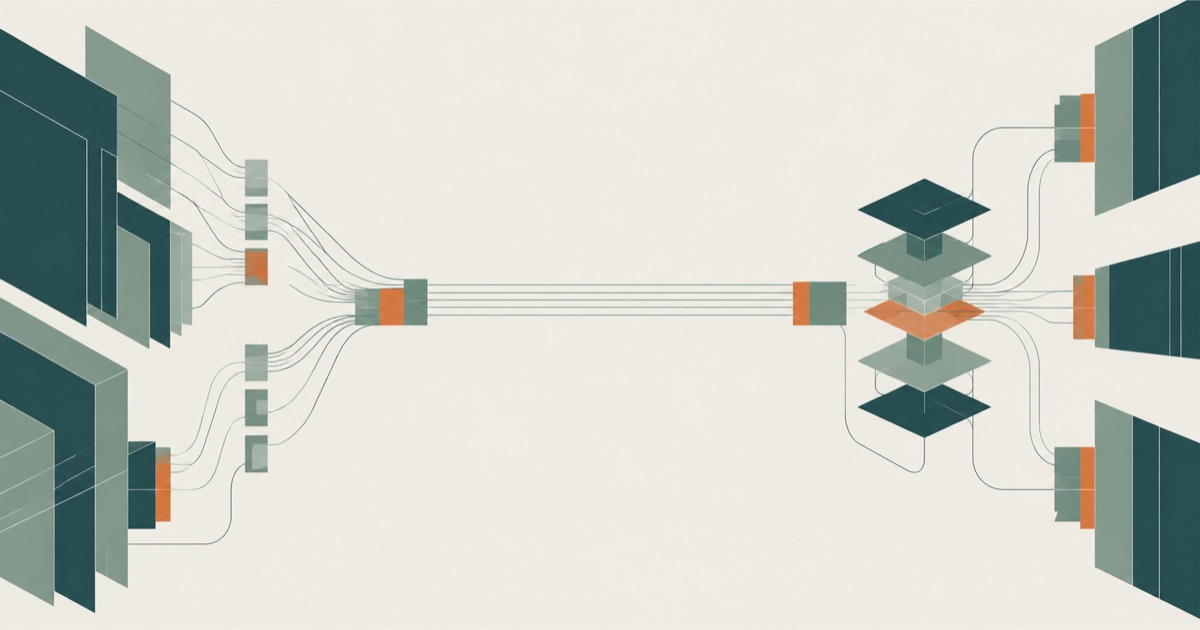
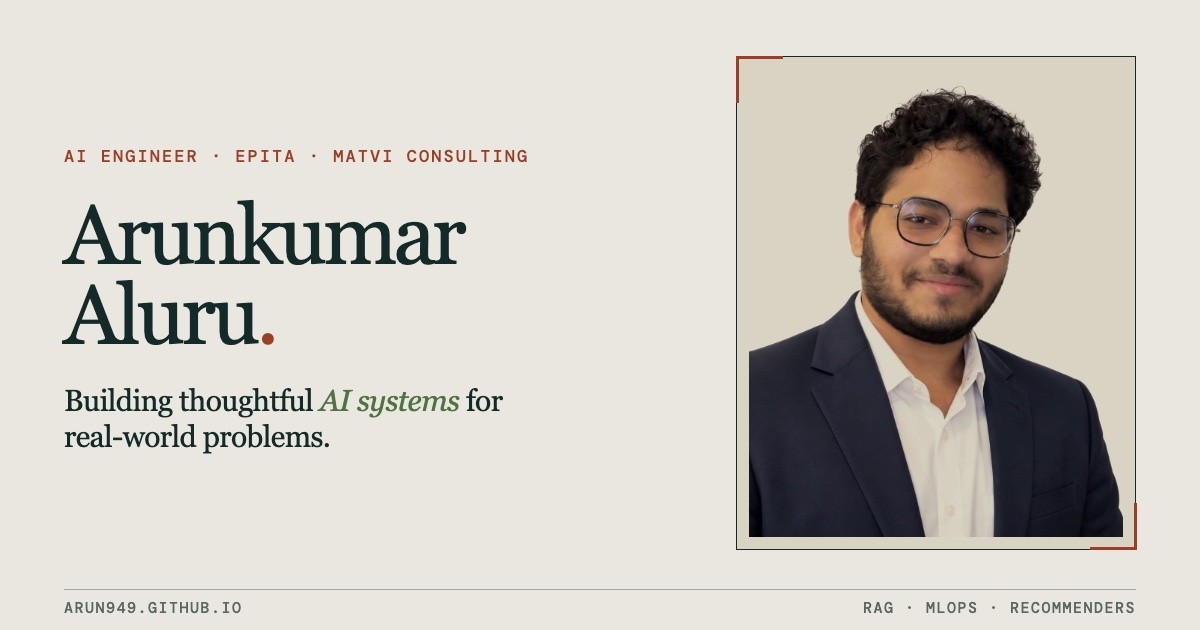
Add 'Let's talk about' blog with My journey and My research tracks; new social preview
- Social preview image now uses the new portrait (cache-busted og:image)
- articles.js entries carry a track; blog page has track cards, filters and #journey/#research links
- IEEE paper listed under My research; RAG article under My journey
- Homepage blog section links both tracks

diff --git a/blog.html b/blog.html
@@ -3,7 +3,7 @@
 <head>
   <meta charset="UTF-8">
   <meta name="viewport" content="width=device-width, initial-scale=1.0">
-  <meta name="description" content="Articles and notes by Arunkumar Aluru on AI engineering, machine learning, MLOps, and applied generative AI.">
+  <meta name="description" content="Let's talk about: blogs on Arunkumar Aluru's journey in AI engineering, and the research he is working on.">
   <meta name="robots" content="index, follow">
   <meta name="theme-color" content="#e9e7df" media="(prefers-color-scheme: light)">
   <meta name="theme-color" content="#111b1a" media="(prefers-color-scheme: dark)">
@@ -12,8 +12,11 @@
   <meta property="og:type" content="website">
   <meta property="og:url" content="https://arun949.github.io/blog.html">
   <meta property="og:title" content="My Blog | Arunkumar Aluru">
-  <meta property="og:description" content="Notes on AI engineering, machine learning, MLOps, and applied generative AI.">
-  <meta property="og:image" content="https://arun949.github.io/assets/social-preview.jpg">
+  <meta property="og:description" content="Let's talk about my journey in AI engineering and the research I am working on.">
+  <meta property="og:image" content="https://arun949.github.io/assets/social-preview.jpg?v=2">
+  <meta property="og:image:width" content="1200">
+  <meta property="og:image:height" content="630">
+  <meta property="og:image:alt" content="Arunkumar Aluru, AI Engineer, with the line Building thoughtful AI systems for real-world problems">
   <meta name="twitter:card" content="summary_large_image">
   <title>My Blog | Arunkumar Aluru</title>
   <link rel="icon" href="assets/favicon.svg" type="image/svg+xml">
@@ -21,18 +24,48 @@
   <link rel="preconnect" href="https://fonts.googleapis.com">
   <link rel="preconnect" href="https://fonts.gstatic.com" crossorigin>
   <link href="https://fonts.googleapis.com/css2?family=DM+Mono:wght@400;500&family=Manrope:wght@400;500;700&display=swap" rel="stylesheet">
-  <link rel="stylesheet" href="styles.css?v=20261127">
+  <link rel="stylesheet" href="styles.css?v=20261128">
 </head>
 <body>
   <a class="skip-link" href="#main-content">Skip to content</a>
   <header class="site-header"><nav class="nav container" aria-label="Primary navigation"><a class="wordmark" href="index.html">Arunkumar<span>.</span></a><div class="nav-end"><a class="nav-back" href="index.html">Portfolio</a><button class="theme-toggle" type="button" aria-label="Switch colour theme"><span class="theme-label">Dark</span></button></div></nav></header>
   <main id="main-content">
-    <section class="blog-hero container"><p class="eyebrow">My Blog / Field notes</p><h1>Ideas I am <em>working through.</em></h1><p>Short articles on AI engineering, machine learning, data systems, MLOps, and the lessons behind the work.</p></section>
-    <section class="blog-section container" aria-labelledby="articles-heading"><div class="blog-heading"><h2 id="articles-heading">Latest articles</h2><p id="article-count" aria-live="polite"></p></div><div class="article-list" id="article-list"></div><div class="empty-articles" id="empty-articles" hidden><p class="eyebrow">First entry pending</p><h2>New notes are on the way.</h2><p>Check back soon for practical writing on AI systems and applied research.</p></div></section>
+    <section class="blog-hero container">
+      <p class="eyebrow">My Blog</p>
+      <h1>Let's talk <em>about.</em></h1>
+      <p>Two threads run through everything I write here: the journey of building and learning, and the research questions I am working on.</p>
+      <div class="track-cards">
+        <a class="track-card" href="#journey" data-filter="journey">
+          <span class="track-index">01</span>
+          <span class="track-title">My journey</span>
+          <span class="track-summary">Blogs on what I am building, learning, and curious about, from AI engineering to life as a student in France.</span>
+          <span class="track-count" data-track-count="journey"></span>
+        </a>
+        <a class="track-card" href="#research" data-filter="research">
+          <span class="track-index">02</span>
+          <span class="track-title">My research</span>
+          <span class="track-summary">The research I am working on: questions I am investigating, experiments, results, and published papers.</span>
+          <span class="track-count" data-track-count="research"></span>
+        </a>
+      </div>
+    </section>
+    <section class="blog-section container" id="articles" aria-labelledby="articles-heading">
+      <div class="blog-heading">
+        <h2 id="articles-heading">Everything</h2>
+        <div class="blog-filters" role="group" aria-label="Filter entries">
+          <button type="button" data-filter="all" aria-pressed="true">All</button>
+          <button type="button" data-filter="journey" aria-pressed="false">My journey</button>
+          <button type="button" data-filter="research" aria-pressed="false">My research</button>
+          <p id="article-count" aria-live="polite"></p>
+        </div>
+      </div>
+      <div class="article-list" id="article-list"></div>
+      <div class="empty-articles" id="empty-articles" hidden><p class="eyebrow">First entry pending</p><h2>New entries are on the way.</h2><p>Nothing in this thread yet. Check back soon.</p></div>
+    </section>
   </main>
   <footer class="footer container"><span>© <span data-year>2026</span> Arunkumar Aluru</span><a href="index.html">Return to portfolio</a></footer>
-  <script src="articles.js"></script>
-  <script src="blog.js"></script>
-  <script src="script.js?v=20261127"></script>
+  <script src="articles.js?v=20261128"></script>
+  <script src="blog.js?v=20261128"></script>
+  <script src="script.js?v=20261128"></script>
 </body>
 </html>

diff --git a/blog.js b/blog.js
@@ -1,22 +1,69 @@
+const tracks = window.blogTracks || {};
+const articles = (Array.isArray(window.blogArticles) ? window.blogArticles : [])
+  .slice()
+  .sort((a, b) => String(b.date || '').localeCompare(String(a.date || '')));
+
 const articleList = document.querySelector('#article-list');
 const emptyArticles = document.querySelector('#empty-articles');
 const articleCount = document.querySelector('#article-count');
-const articles = Array.isArray(window.blogArticles) ? window.blogArticles : [];
+const listHeading = document.querySelector('#articles-heading');
+const filterButtons = document.querySelectorAll('[data-filter]');
 
-const formatDate = date => new Intl.DateTimeFormat('en', { month: 'short', day: 'numeric', year: 'numeric' }).format(new Date(`${date}T12:00:00`));
+const escapeHtml = value => String(value ?? '').replace(/[&<>"']/g, ch => ({ '&': '&amp;', '<': '&lt;', '>': '&gt;', '"': '&quot;', "'": '&#39;' }[ch]));
+const formatDate = date => {
+  if (!date) return '';
+  if (/^\d{4}$/.test(date)) return date;
+  return new Intl.DateTimeFormat('en', { month: 'short', day: 'numeric', year: 'numeric' }).format(new Date(`${date}T12:00:00`));
+};
+const countLabel = n => `${n} ${n === 1 ? 'entry' : 'entries'}`;
 
-if (!articles.length) {
-  emptyArticles.hidden = false;
-  articleCount.textContent = '0 articles';
-} else {
-  articleCount.textContent = `${articles.length} ${articles.length === 1 ? 'article' : 'articles'}`;
-  articles
-    .sort((a, b) => new Date(b.date) - new Date(a.date))
-    .forEach(article => {
-      const item = document.createElement(article.url ? 'a' : 'article');
-      item.className = 'article-card';
-      if (article.url) item.href = article.url;
-      item.innerHTML = `${article.image ? `<img src="${article.image}" alt="${article.imageAlt || ''}" width="1400" height="788" loading="lazy">` : ''}<div class="article-card-content"><p class="project-number">${article.category || 'Notes'}</p><h3>${article.title}</h3><p>${article.summary}</p><span>${formatDate(article.date)}${article.readTime ? ` · ${article.readTime}` : ''}</span></div>`;
-      articleList.appendChild(item);
-    });
-}
+// Fill in the counts on the track cards
+document.querySelectorAll('[data-track-count]').forEach(node => {
+  node.textContent = countLabel(articles.filter(a => a.track === node.dataset.trackCount).length);
+});
+
+const render = filter => {
+  const shown = filter === 'all' ? articles : articles.filter(a => a.track === filter);
+  articleList.innerHTML = '';
+  listHeading.textContent = filter === 'all' ? 'Everything' : tracks[filter]?.label || 'Articles';
+  articleCount.textContent = countLabel(shown.length);
+  emptyArticles.hidden = shown.length > 0;
+
+  shown.forEach(article => {
+    const item = document.createElement(article.url ? 'a' : 'article');
+    item.className = 'article-card';
+    if (article.url) {
+      item.href = article.url;
+      if (article.external) { item.target = '_blank'; item.rel = 'noopener noreferrer'; }
+    }
+    const trackLabel = tracks[article.track]?.label;
+    const meta = [formatDate(article.date), article.readTime].filter(Boolean).join(' · ');
+    item.innerHTML = `${article.image ? `<img src="${escapeHtml(article.image)}" alt="${escapeHtml(article.imageAlt)}" width="1400" height="788" loading="lazy">` : ''}`
+      + `<div class="article-card-content">`
+      + `<p class="project-number">${trackLabel ? `<span class="track-chip">${escapeHtml(trackLabel)}</span>` : ''}${escapeHtml(article.category || 'Notes')}</p>`
+      + `<h3>${escapeHtml(article.title)}</h3><p>${escapeHtml(article.summary)}</p>`
+      + `<span>${escapeHtml(meta)}${article.external ? ' · External link' : ''}</span></div>`;
+    articleList.appendChild(item);
+  });
+
+  filterButtons.forEach(button => button.setAttribute('aria-pressed', String(button.dataset.filter === filter)));
+  document.querySelectorAll('.track-card').forEach(card => card.classList.toggle('is-active', card.dataset.filter === filter));
+};
+
+const filterFromHash = () => {
+  const hash = location.hash.replace('#', '');
+  return tracks[hash] ? hash : 'all';
+};
+
+filterButtons.forEach(button => button.addEventListener('click', event => {
+  event.preventDefault();
+  const filter = button.dataset.filter;
+  history.replaceState(null, '', filter === 'all' ? location.pathname : `#${filter}`);
+  render(filter);
+  if (button.classList.contains('track-card')) {
+    document.querySelector('#articles').scrollIntoView({ behavior: matchMedia('(prefers-reduced-motion: reduce)').matches ? 'auto' : 'smooth' });
+  }
+}));
+window.addEventListener('hashchange', () => render(filterFromHash()));
+
+render(filterFromHash());

diff --git a/index.html b/index.html
@@ -13,21 +13,22 @@
   <meta property="og:url" content="https://arun949.github.io/">
   <meta property="og:title" content="Arunkumar Aluru | AI Engineer">
   <meta property="og:description" content="AI Engineer Intern at Matvi Consulting and Master's student in AI Systems at EPITA.">
-  <meta property="og:image" content="https://arun949.github.io/assets/social-preview.jpg">
+  <meta property="og:image" content="https://arun949.github.io/assets/social-preview.jpg?v=2">
   <meta property="og:image:width" content="1200">
   <meta property="og:image:height" content="630">
-  <meta property="og:image:alt" content="Abstract deep teal and clay AI systems graphic">
+  <meta property="og:image:alt" content="Arunkumar Aluru, AI Engineer, with the line Building thoughtful AI systems for real-world problems">
   <meta name="twitter:card" content="summary_large_image">
   <meta name="twitter:title" content="Arunkumar Aluru | AI Engineer">
   <meta name="twitter:description" content="AI Engineer Intern at Matvi Consulting and Master's student in AI Systems at EPITA.">
-  <meta name="twitter:image" content="https://arun949.github.io/assets/social-preview.jpg">
+  <meta name="twitter:image" content="https://arun949.github.io/assets/social-preview.jpg?v=2">
+  <meta name="twitter:image:alt" content="Arunkumar Aluru, AI Engineer, with the line Building thoughtful AI systems for real-world problems">
   <title>Arunkumar Aluru | AI Engineer, EPITA</title>
   <script>try{var t=localStorage.getItem('theme');if(t)document.documentElement.dataset.theme=t}catch(e){}</script>
   <link rel="preconnect" href="https://fonts.googleapis.com">
   <link rel="preconnect" href="https://fonts.gstatic.com" crossorigin>
   <link href="https://fonts.googleapis.com/css2?family=DM+Mono:wght@400;500&family=Manrope:wght@400;500;700&display=swap" rel="stylesheet">
   <link rel="icon" href="assets/favicon.svg" type="image/svg+xml">
-  <link rel="stylesheet" href="styles.css?v=20261127">
+  <link rel="stylesheet" href="styles.css?v=20261128">
   <script type="application/ld+json">
   {
     "@context": "https://schema.org",
@@ -56,7 +57,7 @@
           <a href="#about">About</a>
           <a href="#journey">Journey</a>
           <a href="#work">Work</a>
-          <a href="#posts">Posts</a>
+          <a href="#posts">Blog</a>
           <a href="#writing">Research</a>
           <a href="#contact">Contact</a>
         </div>
@@ -199,7 +200,22 @@
 
     <section class="section blog-preview-section" id="posts">
       <div class="container">
-        <div class="section-heading reveal"><p class="eyebrow">05 / My Blog</p><h2>Notes from building AI systems.</h2></div>
+        <div class="section-heading reveal"><p class="eyebrow">05 / My Blog</p><h2>Let's talk about.</h2></div>
+        <div class="track-cards reveal">
+          <a class="track-card" href="blog.html#journey">
+            <span class="track-index">01</span>
+            <span class="track-title">My journey</span>
+            <span class="track-summary">Blogs on what I am building, learning, and curious about, from AI engineering to life as a student in France.</span>
+            <span class="track-count">Read the blogs</span>
+          </a>
+          <a class="track-card" href="blog.html#research">
+            <span class="track-index">02</span>
+            <span class="track-title">My research</span>
+            <span class="track-summary">The research I am working on: questions I am investigating, experiments, results, and published papers.</span>
+            <span class="track-count">See the research</span>
+          </a>
+        </div>
+        <p class="latest-label reveal">Latest from my journey</p>
         <article class="latest-post reveal">
           <img src="assets/rag-systems-cover.jpg" alt="Abstract diagram of documents flowing through a layered retrieval system into a grounded answer" width="1400" height="788" loading="lazy">
           <div>
@@ -251,6 +267,6 @@
     <span>© <span data-year>2026</span> Arunkumar Aluru</span>
     <span class="footer-links"><a href="blog.html">Blog</a><a href="https://github.com/Arun949" target="_blank" rel="noopener noreferrer">GitHub</a><a href="#home">Back to top</a></span>
   </footer>
-  <script src="script.js?v=20261127"></script>
+  <script src="script.js?v=20261128"></script>
 </body>
 </html>

diff --git a/posts/building-rag-systems.html b/posts/building-rag-systems.html
@@ -25,7 +25,7 @@
   <link rel="preconnect" href="https://fonts.googleapis.com">
   <link rel="preconnect" href="https://fonts.gstatic.com" crossorigin>
   <link href="https://fonts.googleapis.com/css2?family=DM+Mono:wght@400;500&family=Manrope:wght@400;500;700&display=swap" rel="stylesheet">
-  <link rel="stylesheet" href="../styles.css?v=20261127">
+  <link rel="stylesheet" href="../styles.css?v=20261128">
   <script type="application/ld+json">
   {
     "@context": "https://schema.org",
@@ -45,7 +45,7 @@
   <header class="site-header"><nav class="nav container" aria-label="Primary navigation"><a class="wordmark" href="../index.html">Arunkumar<span>.</span></a><div class="nav-end"><a class="nav-back" href="../blog.html">My Blog</a><button class="theme-toggle" type="button" aria-label="Switch colour theme"><span class="theme-label">Dark</span></button></div></nav></header>
   <main id="main-content">
     <article class="post container">
-      <header class="post-header"><p class="eyebrow">Generative AI / 8 min read</p><h1>Building RAG systems you can <em>trust.</em></h1><p class="post-dek">A good RAG system is not defined by a clever prompt. It is defined by whether it retrieves the right evidence, cites it clearly, and behaves honestly when the evidence is weak.</p><p class="post-meta">September 23, 2026 · Arunkumar Aluru</p></header>
+      <header class="post-header"><p class="eyebrow"><a href="../blog.html#journey">My journey</a> / Generative AI / 8 min read</p><h1>Building RAG systems you can <em>trust.</em></h1><p class="post-dek">A good RAG system is not defined by a clever prompt. It is defined by whether it retrieves the right evidence, cites it clearly, and behaves honestly when the evidence is weak.</p><p class="post-meta">September 23, 2026 · Arunkumar Aluru</p></header>
       <figure class="post-cover"><img src="../assets/rag-systems-cover.jpg" alt="Abstract diagram of documents flowing through a layered retrieval system into a grounded answer" width="1400" height="788" fetchpriority="high"></figure>
       <div class="post-body">
         <p class="post-lead">Retrieval-augmented generation connects a language model to a knowledge base. That sounds simple, but the difference between a polished demo and a reliable system is in the decisions around retrieval, evidence, evaluation, and user control.</p>
@@ -70,11 +70,11 @@
         <p>Cost visibility is particularly useful in multi-step systems. An answer may call embeddings, retrieval, generation, a faithfulness check, and optional web research. Recording these steps separately makes it easier to decide which checks should run for every query and which should be reserved for higher-risk cases.</p>
         <p>A trustworthy RAG system is not one that answers everything. It is one that makes the limits of its evidence clear and gives users a path to inspect the result.</p>
         <p class="post-callout">Explore the implementation in the <a href="https://github.com/Arun949/Business-Law-RAG-LLM-AI-Assistant" target="_blank" rel="noopener noreferrer">Business Law RAG AI Assistant repository</a>.</p>
-        <a class="post-back" href="../blog.html">← Back to all posts</a>
+        <a class="post-back" href="../blog.html#journey">← More from my journey</a>
       </div>
     </article>
   </main>
   <footer class="footer container"><span>© <span data-year>2026</span> Arunkumar Aluru</span><a href="../blog.html">More articles</a></footer>
-  <script src="../script.js?v=20261127"></script>
+  <script src="../script.js?v=20261128"></script>
 </body>
 </html>

diff --git a/styles.css b/styles.css
@@ -208,3 +208,29 @@ h2 { font: 400 clamp(2.7rem, 5vw, 5rem)/.97 var(--serif); }
 @media (prefers-reduced-motion: reduce) { html { scroll-behavior: auto; } }
 @media (max-width: 850px) { .work-index a { grid-template-columns: 1fr 1.4fr; } .work-kind { display: none; } .timeline li { grid-template-columns: 9.5rem 1fr; gap: 1.5rem; } }
 @media (max-width: 650px) { .nav-end { gap: .9rem; } .portrait { justify-self: start; } .timeline li { grid-template-columns: 1fr; gap: .4rem; padding: 1.6rem 0; } .work-index a { grid-template-columns: 1fr; gap: .3rem; padding-inline: 0; } .facts div { grid-template-columns: 6.5rem 1fr; } .more-work { margin-top: 3rem; } }
+
+/* ---- Blog tracks: "Let's talk about" ---- */
+.track-cards { display: grid; grid-template-columns: repeat(2, 1fr); gap: 1rem; }
+.blog-hero .track-cards { margin-top: 2.5rem; }
+.track-card { position: relative; display: flex; flex-direction: column; min-height: 250px; padding: 1.75rem; border: 1px solid var(--ink); background: var(--panel); color: var(--ink); text-decoration: none; transition: border-color .25s, background-color .25s; }
+.track-card:hover { border-color: var(--acid); color: var(--ink); }
+.track-card.is-active { border-color: var(--acid); background: var(--sand); }
+.track-card.is-active::after { content: ''; position: absolute; left: -1px; right: -1px; top: -1px; height: 3px; background: var(--acid); }
+.track-index { color: var(--acid); font: 500 .7rem var(--mono); letter-spacing: .1em; }
+.track-title { margin: 1.4rem 0 .7rem; font: 400 clamp(2rem, 3.4vw, 3rem)/1 var(--serif); letter-spacing: -.04em; }
+.track-card:hover .track-title { color: var(--acid); }
+.track-summary { max-width: 460px; color: var(--muted); }
+.track-count { margin-top: auto; padding-top: 1.5rem; color: var(--muted); font: 500 .68rem var(--mono); letter-spacing: .08em; text-transform: uppercase; }
+.latest-label { margin: 3.5rem 0 1rem; color: var(--acid); font: 500 .72rem var(--mono); letter-spacing: .12em; text-transform: uppercase; }
+.blog-filters { display: flex; flex-wrap: wrap; align-items: center; gap: .5rem; }
+.blog-filters button { min-height: 40px; padding: 0 .9rem; border: 1px solid var(--line); background: transparent; color: var(--ink); font: 700 .66rem var(--mono); letter-spacing: .08em; text-transform: uppercase; cursor: pointer; transition: border-color .2s, background-color .2s, color .2s; }
+.blog-filters button:hover { border-color: var(--acid); color: var(--acid); }
+.blog-filters button[aria-pressed="true"] { border-color: var(--ink); background: var(--ink); color: var(--paper); }
+.blog-filters p { margin: 0 0 0 .75rem; }
+.track-chip { margin-right: .7rem; padding: .15rem .45rem; border: 1px solid currentColor; }
+.post-header .eyebrow a { text-decoration: none; }
+@media (max-width: 650px) {
+  .track-cards { grid-template-columns: 1fr; }
+  .track-card { min-height: 0; padding: 1.4rem; }
+  .blog-filters p { flex-basis: 100%; margin: .4rem 0 0; }
+}

diff --git a/articles.js b/articles.js
@@ -1,16 +1,38 @@
 /*
-  Add new articles to this list. Example:
+  Every entry belongs to one of two tracks:
+
+    track: 'journey'   → "My journey": blog posts, lessons learned, interests
+    track: 'research'  → "My research": research I am doing, papers, experiments
+
+  Add a new entry to the list below. Example:
   {
-    title: 'What I learned building a production RAG system',
-    date: '2026-10-01',
-    category: 'Generative AI',
+    track: 'journey',
+    title: 'What I learned in my first month at Matvi',
+    date: '2026-12-01',            // 'YYYY-MM-DD', or just 'YYYY'
+    category: 'Career',
     summary: 'A short description that appears on the blog card.',
-    url: 'posts/production-rag.html',
-    readTime: '6 min read'
+    url: 'posts/first-month-at-matvi.html',
+    readTime: '5 min read',
+    image: 'assets/first-month-cover.jpg',   // optional, 1400×788 works well
+    imageAlt: 'Describe the image'
   }
+
+  For links to other sites (a paper, a talk), add external: true.
 */
+window.blogTracks = {
+  journey: {
+    label: 'My journey',
+    summary: 'Blogs on what I am building, learning, and curious about, from AI engineering to life as a student in France.'
+  },
+  research: {
+    label: 'My research',
+    summary: 'The research I am working on: questions I am investigating, experiments, results, and published papers.'
+  }
+};
+
 window.blogArticles = [
   {
+    track: 'journey',
     title: 'Building RAG Systems You Can Trust',
     date: '2026-09-23',
     category: 'Generative AI',
@@ -19,5 +41,15 @@ window.blogArticles = [
     readTime: '8 min read',
     image: 'assets/rag-systems-cover.jpg',
     imageAlt: 'Abstract diagram of documents flowing through a layered retrieval system into a grounded answer'
+  },
+  {
+    track: 'research',
+    title: 'Renewable Energy Prediction using Deep Learning and Generative AI',
+    date: '2024',
+    category: 'IEEE · ICICNIC 2024',
+    summary: 'Forecasting solar and wind generation from ten years of NASA POWER data with LSTM, CNN, and generative AI techniques.',
+    url: 'https://ieeexplore.ieee.org/document/10823172',
+    external: true,
+    readTime: 'Published paper'
   }
 ];

diff --git a/404.html b/404.html
@@ -13,7 +13,7 @@
   <link rel="preconnect" href="https://fonts.googleapis.com">
   <link rel="preconnect" href="https://fonts.gstatic.com" crossorigin>
   <link href="https://fonts.googleapis.com/css2?family=DM+Mono:wght@400;500&family=Manrope:wght@400;500;700&display=swap" rel="stylesheet">
-  <link rel="stylesheet" href="/styles.css?v=20261127">
+  <link rel="stylesheet" href="/styles.css?v=20261128">
 </head>
 <body class="error-page">
   <main class="error-main container">
@@ -22,6 +22,6 @@
     <p>The page may have moved, or the address may be incomplete.</p>
     <div class="actions"><a class="button button-solid" href="/">Return home</a><a class="button button-outline" href="/blog.html">Read the blog</a></div>
   </main>
-  <script src="/script.js?v=20261127"></script>
+  <script src="/script.js?v=20261128"></script>
 </body>
 </html>

diff --git a/README.md b/README.md
@@ -12,7 +12,7 @@ Plain HTML, CSS, and JavaScript served by GitHub Pages. There is no build step a
 
 ```
 index.html                 Portfolio: hero, profile, journey, toolkit, work, blog preview, research, contact
-blog.html                  Blog index, rendered from articles.js
+blog.html                  "Let's talk about" blog: My journey and My research tracks, rendered from articles.js
 posts/*.html               One file per article
 articles.js                Blog article list (title, date, summary, cover)
 blog.js                    Renders the blog index
@@ -35,7 +35,7 @@ sitemap.xml, robots.txt    Search engine hints
 
 1. Copy `posts/building-rag-systems.html` to `posts/<slug>.html` and replace the content, metadata, and JSON-LD.
 2. Add a cover image to `assets/` (1400×788 works well).
-3. Add an entry to `articles.js`.
+3. Add an entry to `articles.js` with `track: 'journey'` (blogs, lessons, interests) or `track: 'research'` (research you are doing, papers, experiments). Links to other sites, such as a paper, take `external: true`.
 4. Add the URL to `sitemap.xml`.
 5. Optionally feature it in the "My Blog" section of `index.html`.
 
